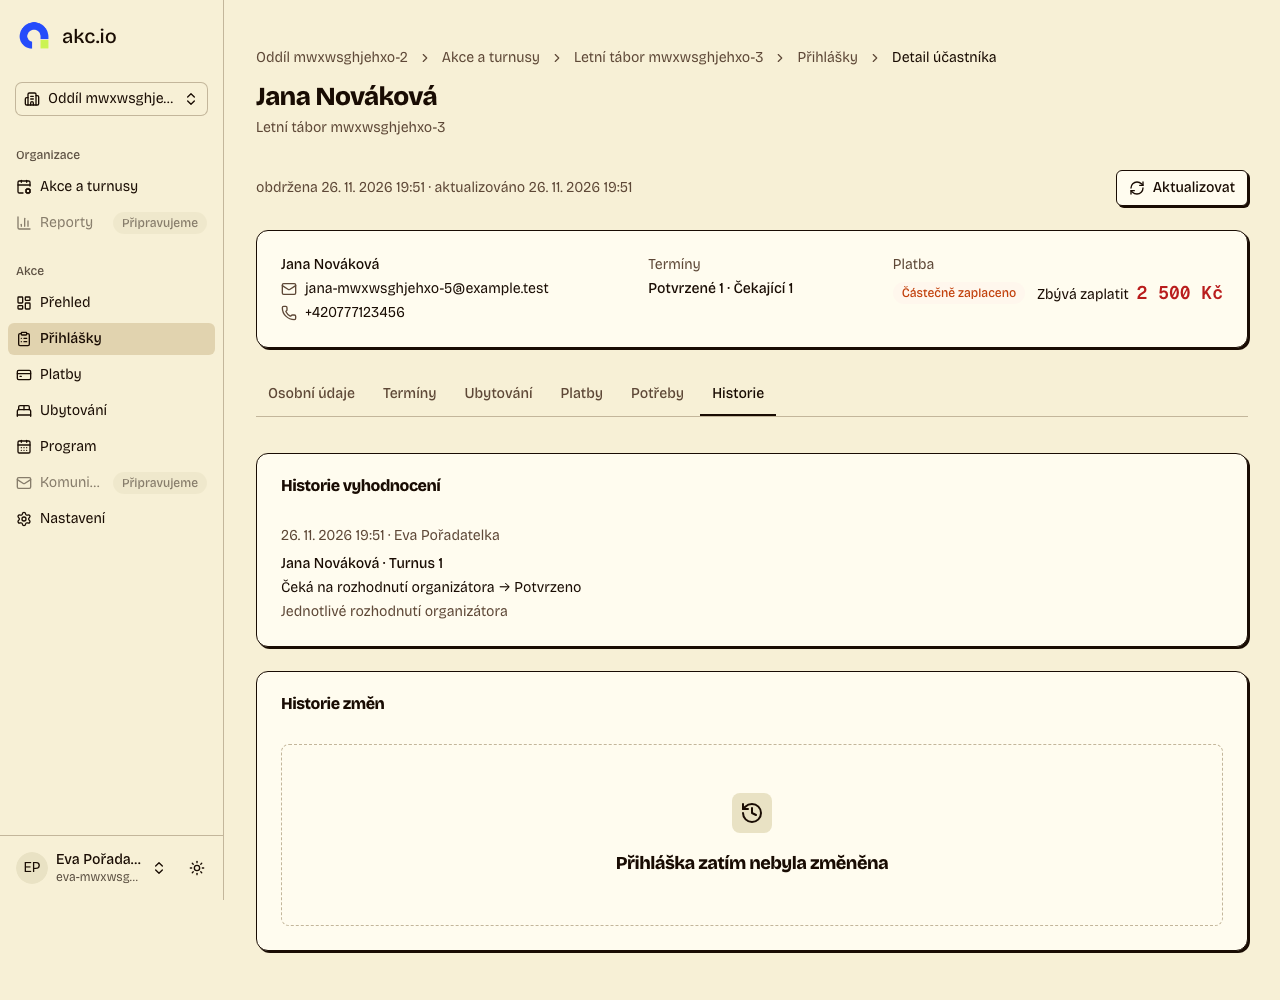
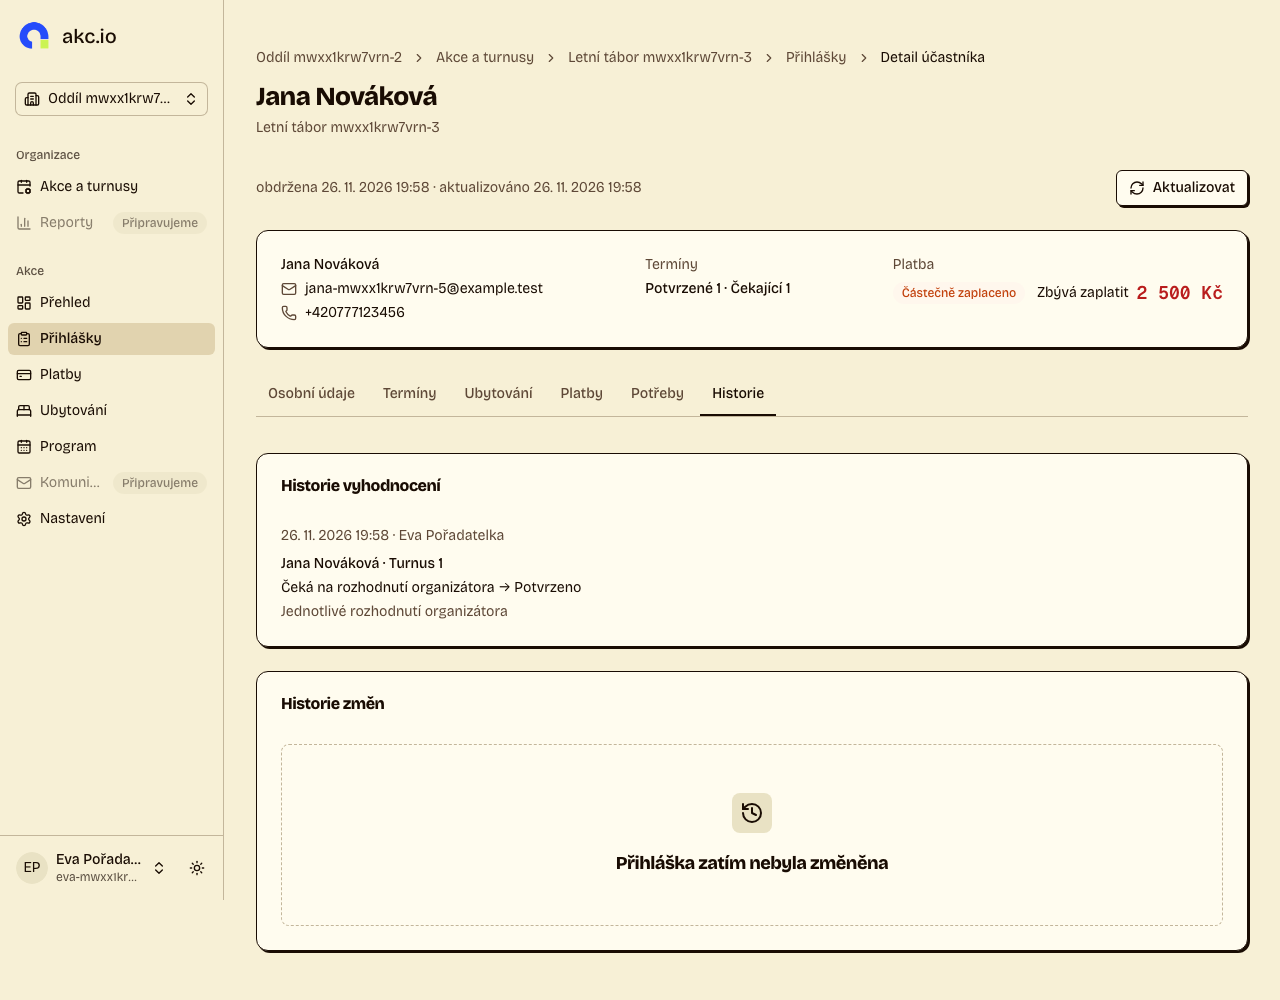
fix(registrations): centre the payment state, label and amount in the detail summary

diff --git a/apps/frontend/src/features/registrations/components/RegistrationDetail.tsx b/apps/frontend/src/features/registrations/components/RegistrationDetail.tsx
@@ -262,7 +262,7 @@ function RegistrationSummary({ registration }: { registration: Detail }) {
             <div className="flex flex-wrap items-center gap-3">
               <PaymentStateBadge state={registration.paymentState} />
               {hasObligation ? (
-                <span className="flex items-baseline gap-2">
+                <span className="flex items-center gap-2">
                   <span>{isOverpaid ? "Přeplatek" : "Zbývá zaplatit"}</span>
                   <BalanceAmount
                     amount={formatCzk(Math.abs(registration.balanceMinor))}
